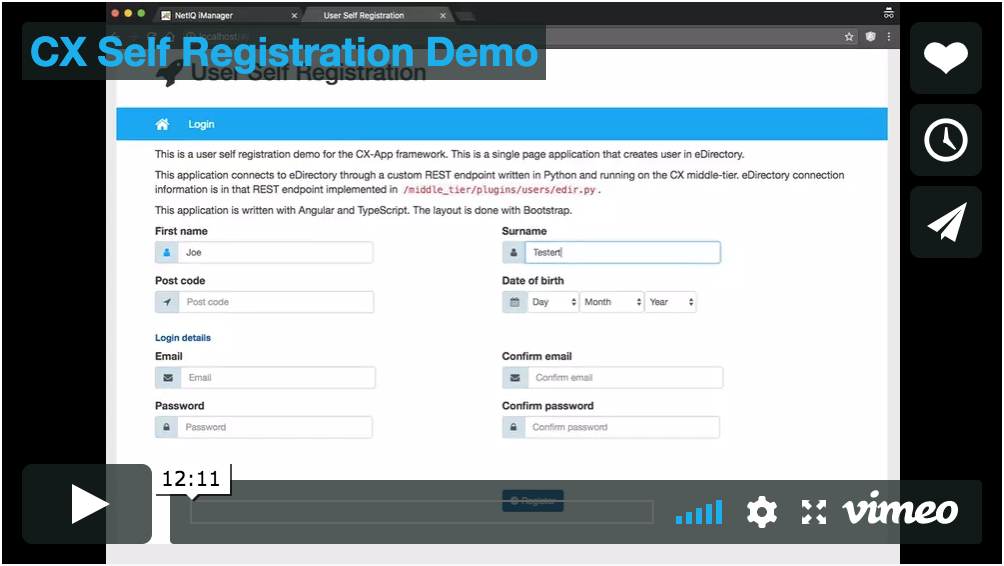
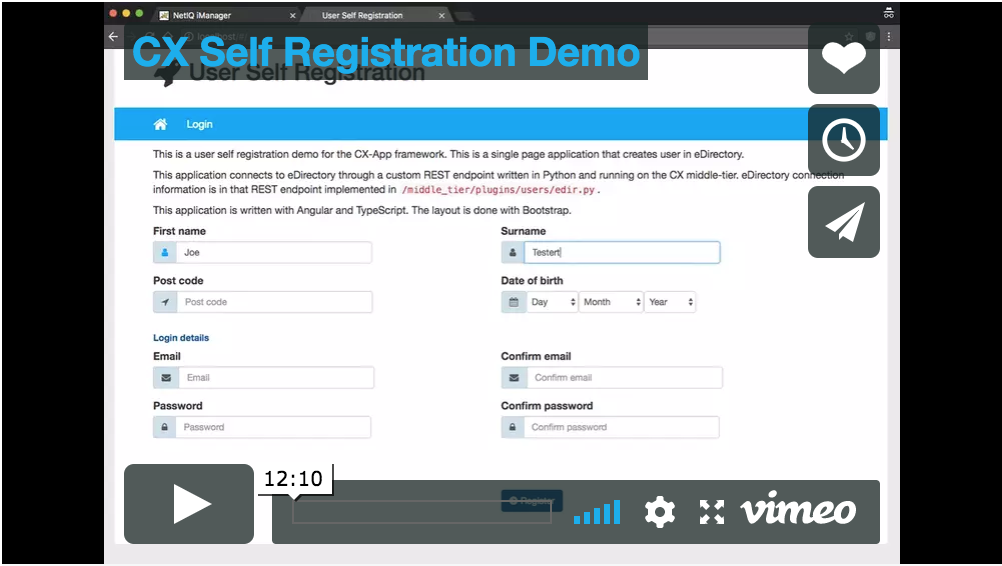
Added a better image for the main video screenshot.

diff --git a/README.md b/README.md
@@ -18,7 +18,7 @@ CX projects have three fundamental components:
 
 For more information about the CX architecture check out this video overview:
 
-[![CX Self Registration Demo](https://raw.github.com/MicroFocus/cx/master/doc/video_screenshot.png)](https://vimeo.com/226010406)
+[![CX Self Registration Demo](doc/video_screenshot.png)](https://vimeo.com/226010406)
 
 [CX Self Registration Demo Video](https://vimeo.com/226010406)
 
